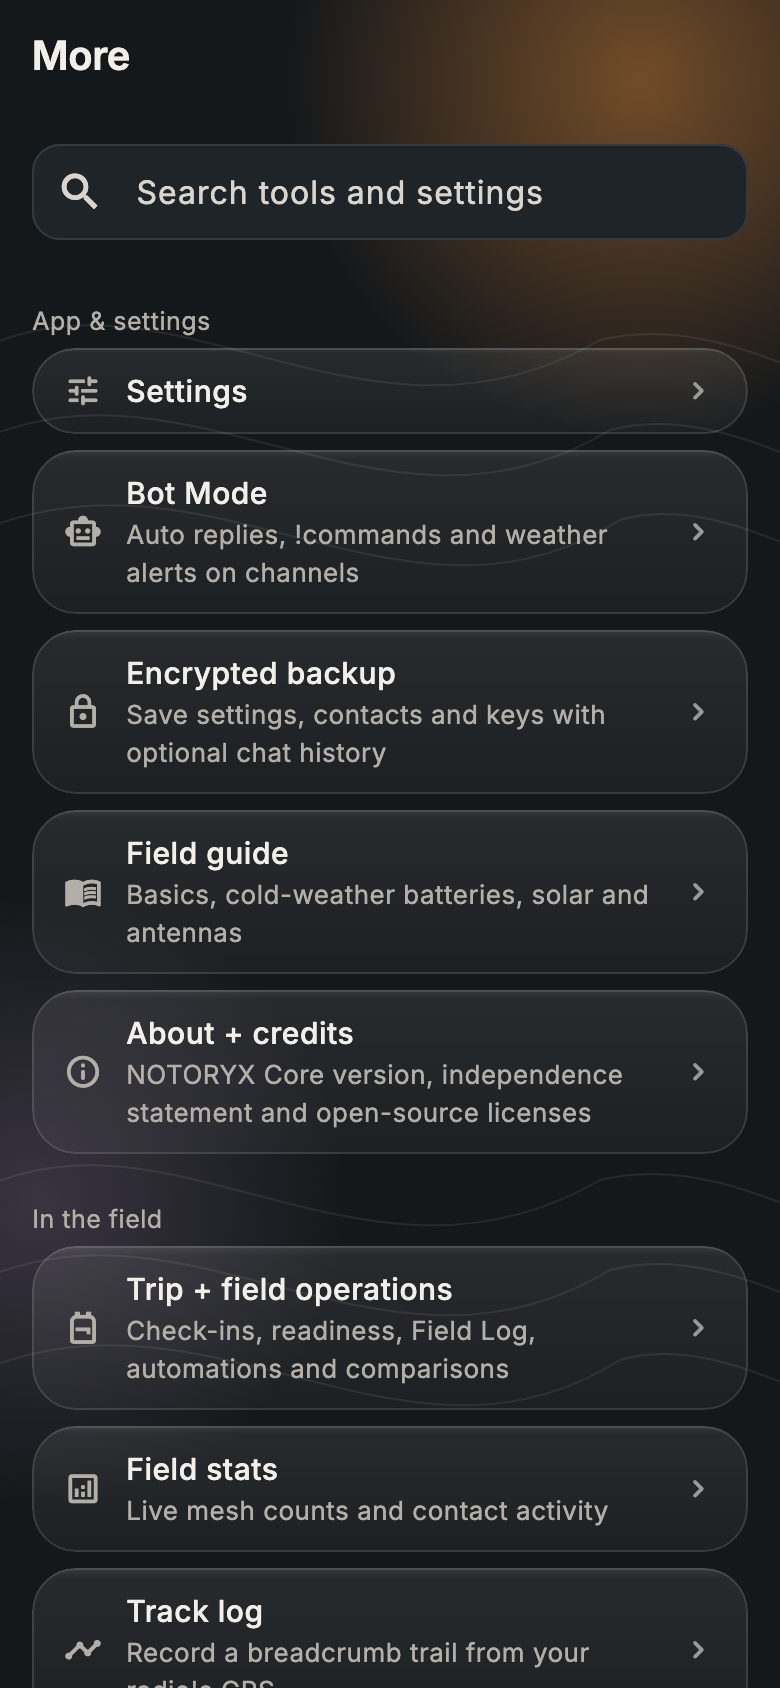
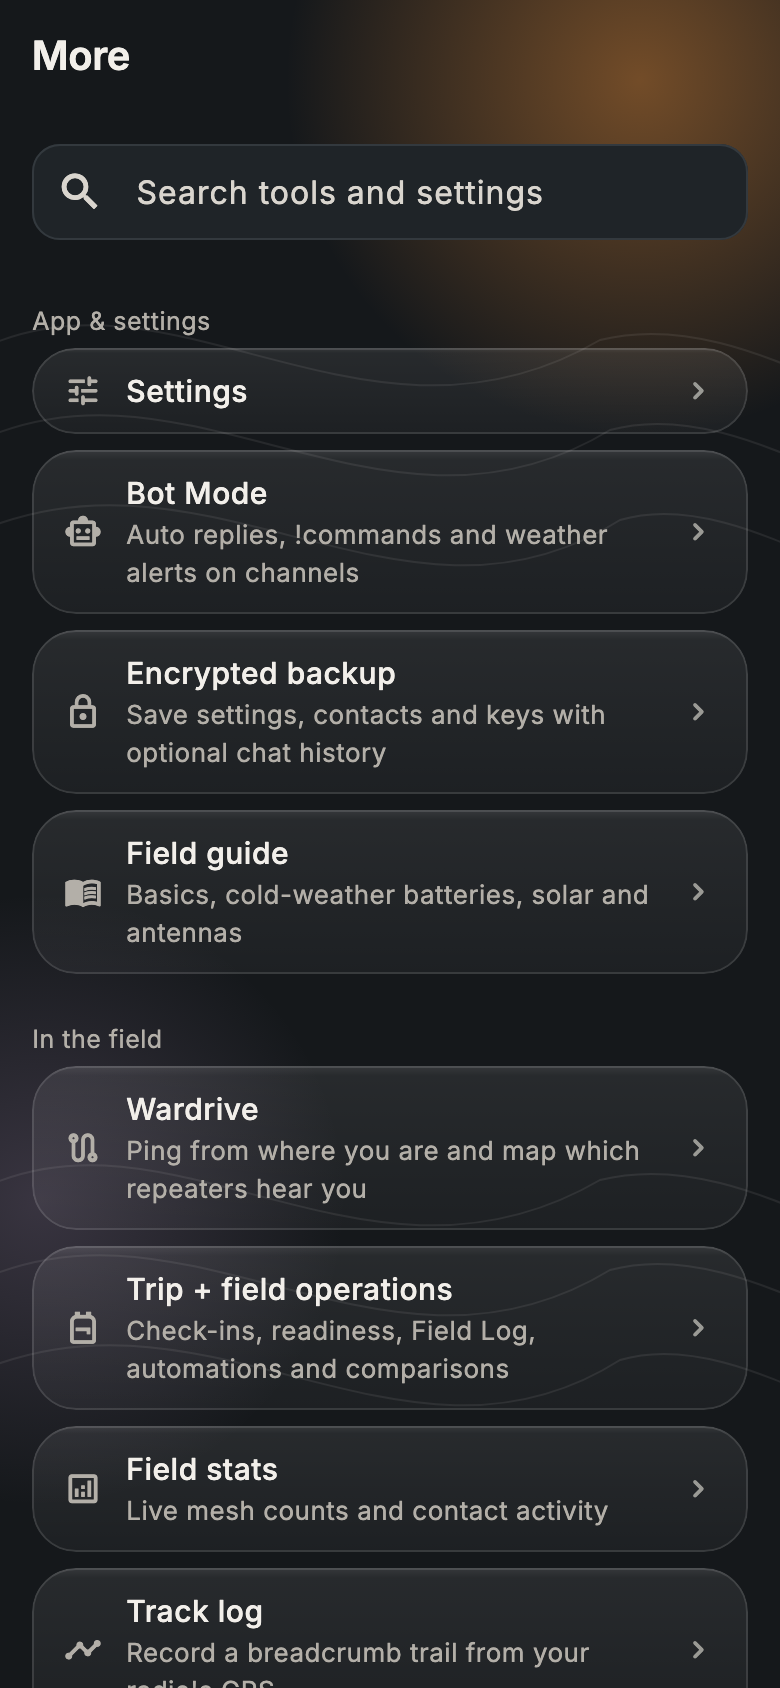
README: fresh screenshots, wardrive, map telemetry, SOS relay and new themes

Changed region(s): [[0.0308, 0.5853, 0.9231, 0.7393], [0.7385, 0.6777, 0.8, 0.7085]]

diff --git a/README.md b/README.md
@@ -25,7 +25,8 @@ NOTORYX Core turns your phone or Mac and a [MeshCore](https://meshcore.io/) radi
 - **It gets your radio on the right settings.** MeshCore's community presets (USA, Canada, EU/UK, Australia and more) are built in, with the one for your country suggested first. It also knows settings local meshes have agreed on, and warns you when your radio doesn't match.
 - **It helps you find people.** A directory of public channels, channels heard on air that you haven't joined, and the #channels active online right now, each one tap to join.
 - **It reaches past the horizon.** The optional MQTT bridge shows MeshCore traffic from beyond radio range, clearly labeled **via MQTT** so it never pretends to be a radio repeat.
-- **It looks the part.** The Frosted ember look puts see-through glass over a warm glow. Four themes, including Red light to keep your night vision and Alpine day for bright snow, all checked for readable contrast.
+- **It shows you where the mesh reaches.** Wardrive maps which repeaters hear you as you drive or hike, and telemetry badges put battery, temperature, humidity and pressure right on the map.
+- **It looks the part.** The Frosted ember look puts see-through glass over a warm glow. Four themes, including Autumn Frost and Red light to keep your night vision, all checked for readable contrast.
 - **It speaks your language.** 18 languages.
 - **It runs your whole kit.** Repeaters, room servers, sensors, access control, a command line and Wi-Fi setup are all in one app.
 - **It's free and open source** (MIT), and built on the community [MeshCore Open](https://github.com/zjs81/meshcore-open) project.
@@ -34,10 +35,11 @@ NOTORYX Core turns your phone or Mac and a [MeshCore](https://meshcore.io/) radi
 
 ### Safety and trips
 - **SOS:** hold for 2 seconds to send your radio's position to your trip contacts (and an optional channel). It repeats every 5 minutes until someone replies or you stop it. **I'm safe** sends an all-clear.
-- **Check-ins:** I'm OK, At camp, Delayed and Heading back. See who each one reached and resend to anyone it missed.
+- **Check-ins:** I'm OK, At camp, Delayed and Heading back. See who each one reached and resend to anyone it missed. Check-ins can also go to a team or SAR channel, signed with your radio's key.
 - **Check-in reminders:** a phone notification when you're due to check in, even when the app is closed.
 - **Overdue alerts:** a warning when a trip contact goes quiet for longer than you set.
 - **Signed SOS:** a channel SOS carries a signature from your radio's key. You can sign every channel post too; a post whose signature doesn't check out shows as unverified, and other apps just see the normal message.
+- **SOS relay** (optional, off by default): when your radio hears an SOS straight from the sender and no repeater passes it on, NOTORYX sends it once more so it can reach a repeater the sender can't. Needs radio firmware v1.16 or newer, and is not yet field-tested on radios.
 - **Plan your trip:** choose up to six contacts. Trip briefs, a **Field Log** of everything sent and received, readiness checks and optional automations.
 - **Home:** radio battery, signal and node count at a glance, your radio's own **sensors** (voltage, temperatures, GPS, light), check-in, SOS and field tools.
 - **Android home-screen widget:** radio status, battery and unread count, with one-tap Check in and SOS.
@@ -48,7 +50,8 @@ NOTORYX Core turns your phone or Mac and a [MeshCore](https://meshcore.io/) radi
 - **Link previews** (off by default).
 - **Message search** across everything saved on the device.
 - **Drafts** kept for each chat.
-- **Share your position or a contact** from the message box. Received contacts can be added in one tap.
+- **Share your position or a contact** from the message box. Received contacts can be added in one tap, and **Add contact from clipboard** accepts links, adverts (even wrapped across lines) and bare public keys.
+- **Region tags:** a channel post scoped to a region shows it next to the time, for example **📍 ct**.
 - **Read messages aloud** (optional) and on-device translation.
 - **Area-limited channel messages** that stay within a radius of you (needs radios running flood-corridor firmware).
 - Optional auto-delete of old channel messages.
@@ -56,6 +59,8 @@ NOTORYX Core turns your phone or Mac and a [MeshCore](https://meshcore.io/) radi
 
 ### Maps, paths and coverage
 - Live mesh map with **offline map packs**.
+- **Map telemetry:** battery, temperature, humidity or pressure badges on the map. Readings dim after an hour and hide after a day, and the map remembers your choice.
+- **Wardrive:** ping every 20 s to 2 min as you move and map which repeaters heard you, and how well, both ways. Pings use your phone's GPS, the map follows you, and drives are saved.
 - **Path graph:** every path you've heard, drawn as flows from far repeaters to you, with the busiest repeaters ranked. Short 1-byte hops are matched to a specific repeater using longer paths.
 - **Route intelligence** that handles 1-, 2- and 3-byte hop IDs, ranks the best repeaters you hear directly, plus path discovery and traces.
 - **Observer reach:** see which online observers heard your message, how many hops it took and the best signal. Unknown repeaters can be named online. Both use a CoreScope analyzer you choose.
@@ -73,7 +78,7 @@ NOTORYX Core turns your phone or Mac and a [MeshCore](https://meshcore.io/) radi
 - Reconnects on its own when your network comes back.
 
 ### Your radios
-- Connect over **Bluetooth, USB or TCP/IP**, and reconnect to your last radio automatically.
+- Connect over **Bluetooth, USB or TCP/IP**. Turn on **Connect to my radio automatically** to reconnect to your last radio when the app opens.
 - **Connections dashboard:** radio and MQTT status side by side, device and firmware details, and a clear prompt when Bluetooth is off.
 - Radio overview with battery, firmware and LoRa settings, live radio stats and a noise-floor chart.
 - **Radio presets:** MeshCore's community catalogue with search and a suggestion for your country. Choosing one keeps your transmit power.
@@ -88,7 +93,7 @@ NOTORYX Core turns your phone or Mac and a [MeshCore](https://meshcore.io/) radi
 ### Backups and everyday comfort
 - **Encrypted backup** of settings, contacts and keys, with optional chat history.
 - **Battery saver**, adjustable refresh rate and app-icon shortcuts.
-- **Four themes:** Blaze (default), Topo night, Red light (keeps your night vision) and Alpine day (for bright sun), all checked for readable contrast.
+- **Four themes:** Blaze (default), Autumn Frost (slate, pine and amber), Bubble Gum (pastel, light) and Red light (keeps your night vision), all checked for readable contrast.
 - Available in **18 languages**. A few screens (parts of bot settings and the local mesh settings banner) are still in English only.
 
 <p align="center">
@@ -99,12 +104,16 @@ NOTORYX Core turns your phone or Mac and a [MeshCore](https://meshcore.io/) radi
 </p>
 
 <p align="center">
-  <img src="images/home.png" width="190" alt="Blaze theme">
-  <img src="images/home_topo_night.png" width="190" alt="Topo night theme">
-  <img src="images/home_red_light.png" width="190" alt="Red light theme">
-  <img src="images/home_alpine_day.png" width="190" alt="Alpine day theme">
+  <img src="images/channel_directory.png" width="190" alt="Channel directory: local, emergency and active channels">
 </p>
-<p align="center"><em>Blaze · Topo night · Red light · Alpine day</em></p>
+
+<p align="center">
+  <img src="images/home.png" width="190" alt="Blaze theme">
+  <img src="images/home_autumn_frost.png" width="190" alt="Autumn Frost theme">
+  <img src="images/home_bubble_gum.png" width="190" alt="Bubble Gum theme">
+  <img src="images/home_red_light.png" width="190" alt="Red light theme">
+</p>
+<p align="center"><em>Blaze · Autumn Frost · Bubble Gum · Red light</em></p>
 
 > NOTORYX Core is a pre-release. It's tested in automated tests and a mesh simulator but not yet on a wide range of phones and radios. It is not a replacement for an emergency service or a satellite messenger.
 
